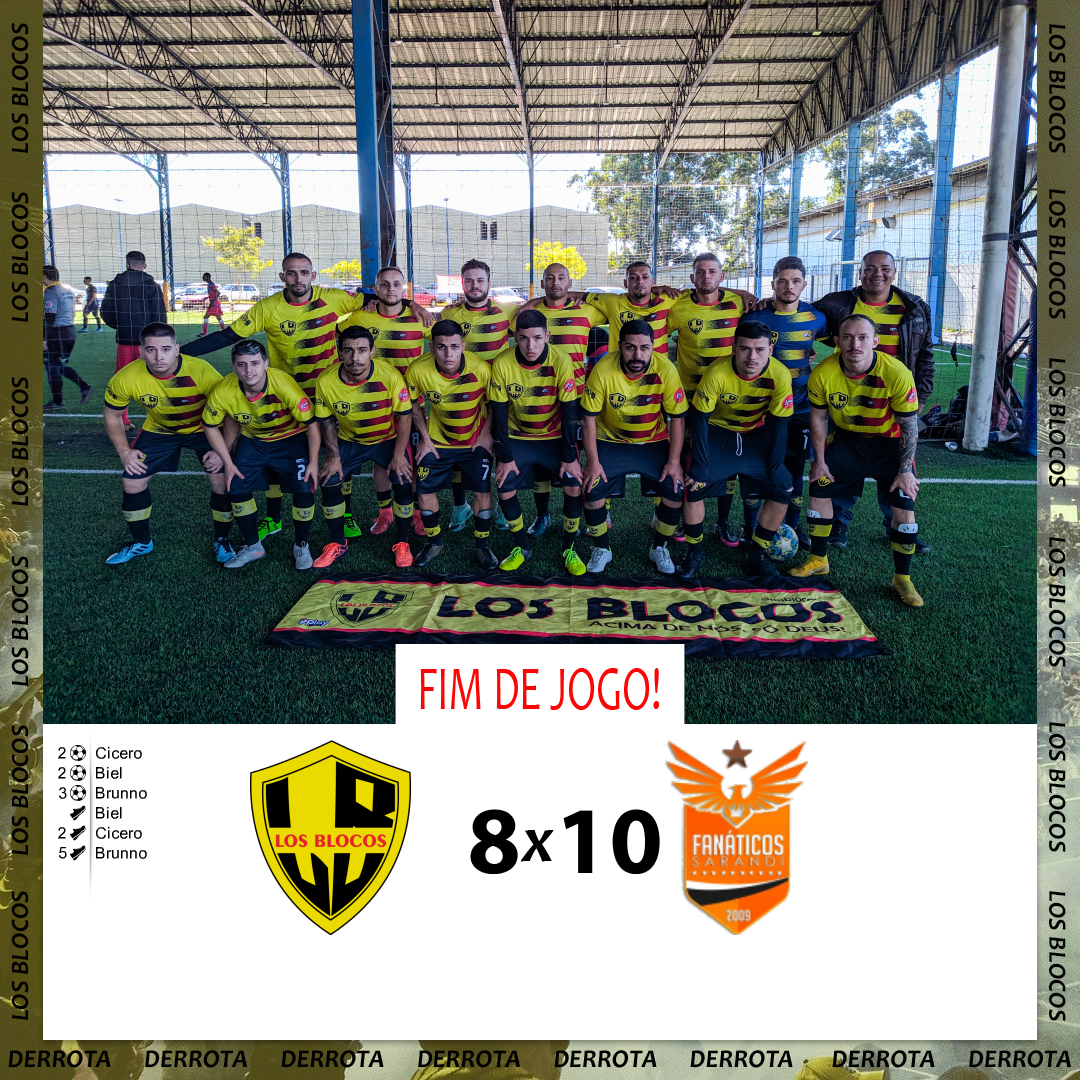
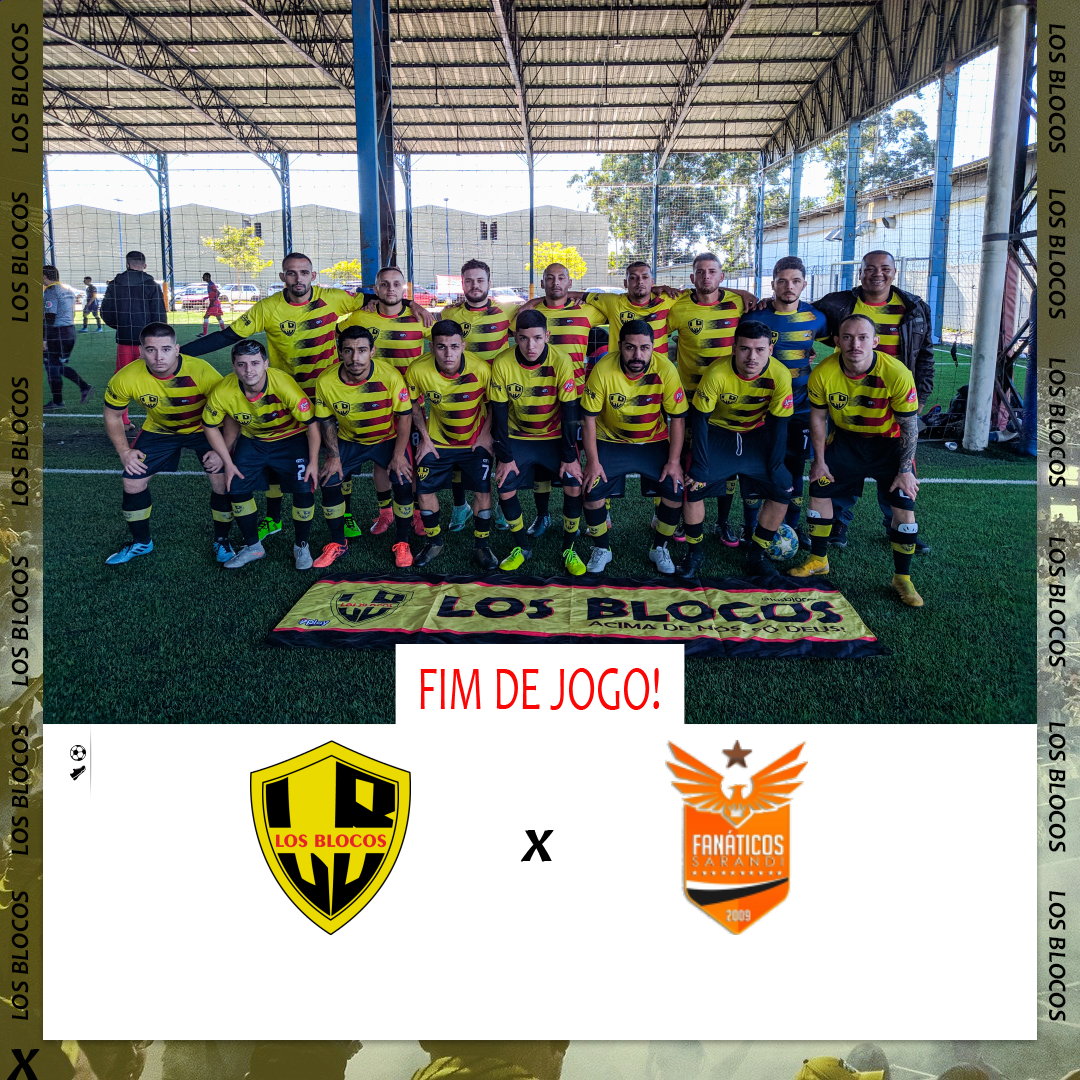
Gols and Assists

diff --git a/frontend/src/components/pages/jsx/PostForm2.jsx b/frontend/src/components/pages/jsx/PostForm2.jsx
@@ -10,6 +10,10 @@ export function PostForm2() {
         { author: '', amount: '' }
     ])
 
+    const [inputList2, setInputList2] = useState([
+        { author: '', amount: '' }
+    ])
+
     const handleChangeInputUnique = event => {
         const { name, value } = event.target
         setGols({
@@ -26,8 +30,21 @@ export function PostForm2() {
         setInputList(list)
     }
 
+    const handleChange2 = (event, index) => {
+        const { name, value } = event.target
+        const list = [...inputList2]
+        list[index][name] = value
+
+        setInputList2(list)
+    }
+
     const handleAddInput = () => {
         setInputList([...inputList, { author: '', amount: '' }])
+
+    }
+
+    const handleAddInput2 = () => {
+        setInputList2([...inputList2, { author: '', amount: '' }])
 
     }
 
@@ -37,13 +54,20 @@ export function PostForm2() {
         setInputList(list)
     }
 
-    const submitHandler = () => { 
+    const handleRemoveInput2 = index => {
+        const list = [...inputList2]
+        list.splice(index, 1)
+        setInputList2(list)
+    }
+
+    const submitHandler = () => {
         const data = {
             golsPro: gols.golsPro,
             golsContra: gols.golsContra,
-            gols: inputList
-        }  
-        
+            gols: inputList,
+            assists: inputList2
+        }
+
         axios.post('http://localhost:3000/make', data)
             .then(res => {
                 console.log(res)
@@ -73,6 +97,9 @@ export function PostForm2() {
             />
             <br />
             <br />
+            <label>Gols</label>
+            <br /> 
+            <br />         
             {inputList.map((item, index) => {
                 return (
                     <div key={index} className="box">
@@ -105,6 +132,44 @@ export function PostForm2() {
                     </div>
                 )
             })}
+            <br />
+            <br />
+            <label>Assistências</label>
+            <br />
+            <br />
+            {inputList2.map((item, index) => {
+                return (
+                    <div key={index} className="box">
+                        <input
+                            type="text"
+                            name="author"
+                            placeholder="Autor"
+                            autoComplete="off"
+                            value={item.author}
+                            onChange={event => handleChange2(event, index)}
+                        />
+                        <input
+                            type="text"
+                            name="amount"
+                            placeholder="Quantidade"
+                            autoComplete="off"
+                            value={item.amount}
+                            onChange={event => handleChange2(event, index)}
+                        />
+                        {inputList2.length !== 1 && <input
+                            type="button"
+                            value="Remover"
+                            onClick={() => handleRemoveInput2(index)}
+                        />}
+                        {inputList2.length - 1 === index && <input
+                            type="button"
+                            value="Adicionar"
+                            onClick={handleAddInput2}
+                        />}
+                    </div>
+                )
+            })}
+            <br />
             <br />
             <button onClick={submitHandler}>Make</button>
         </div>

diff --git a/backend/src/config/jimp.js b/backend/src/config/jimp.js
@@ -1,8 +1,5 @@
 const Jimp = require('jimp')
 
-const gols = []
-const assists = []
-
 function Gols(nome, qntGols) {
     this.nome = nome,
         this.qntGols = qntGols
@@ -12,12 +9,33 @@ function Assists(nome, qntAssists) {
         this.qntAssists = qntAssists
 }
 
-gols.push(new Gols('Cicero', 2))
-gols.push(new Gols('Brunno', 3))
-gols.push(new Gols('Biel', 2))
-assists.push(new Assists('Biel', 1))
-assists.push(new Assists('Brunno', 5))
-assists.push(new Assists('Cicero', 2))
+function addGols(gols) {
+    const golsOfMatch = []
+    for (let i = 0; i < gols.length; i++) {
+        golsOfMatch.push(new Gols(gols[i].author, gols[i].amount))               
+    }
+
+    golsOfMatch.sort(ordenarPorQntGols)
+    return golsOfMatch
+}
+
+function addAssists(assists) {
+    const assistsOfMatch = []
+    for (let i = 0; i < assists.length; i++) {
+        assistsOfMatch.push(new Assists(assists[i].author, assists[i].amount))               
+    }
+
+    assistsOfMatch.sort(ordenarPorQntAssists)
+    return assistsOfMatch
+}
+
+
+// gols.push(new Gols('Cicero', 2))
+// gols.push(new Gols('Brunno', 3))
+// gols.push(new Gols('Biel', 2))
+// assists.push(new Assists('Biel', 1))
+// assists.push(new Assists('Brunno', 5))
+// assists.push(new Assists('Cicero', 2))
 
 function ordenarPorQntGols(a, b) {
     return a.qntGols - b.qntGols;
@@ -26,13 +44,13 @@ function ordenarPorQntAssists(a, b) {
     return a.qntAssists - b.qntAssists;
 }
 
-gols.sort(ordenarPorQntGols)
-assists.sort(ordenarPorQntAssists)
-
-let golsMoreAssists = gols.length + assists.length
+// gols.sort(ordenarPorQntGols)
+// assists.sort(ordenarPorQntAssists)
 
 
-async function resizeGameImage(golsPro, golsContra, image) {
+
+
+async function resizeGameImage(golsPro, golsContra, golsEndMatch, assistsEndMatch, image) {
     const gameImage = await Jimp.read(image)
     const background = await Jimp.read('src/assets/templates/afterGame/2021/background.png')
     const rectEndGame = await Jimp.read('src/assets/templates/afterGame/2021/retangulo-fim-de-jogo.png')
@@ -49,6 +67,10 @@ async function resizeGameImage(golsPro, golsContra, image) {
    
     const font = await Jimp.loadFont('src/assets/fonts/MYRIAD_PRO_BOLD_96_BLACK.fnt')
     const fontGolsAssists = await Jimp.loadFont(Jimp.FONT_SANS_16_BLACK)
+
+    const gols = addGols(golsEndMatch)
+    const assists = addAssists(assistsEndMatch)
+    let golsMoreAssists = gols.length + assists.length
 
     gameImage.resize(994, 724)
     background.composite(gameImage, 43, 0)

diff --git a/backend/src/routes.js b/backend/src/routes.js
@@ -11,7 +11,12 @@ routes.post('/upload', multer(multerConfig).single('file'), (req, res) => {
 
 routes.post('/make', (req, res) => { 
     console.log(req.body)     
-    jimpConfig.resizeGameImage(req.body.golsPro, req.body.golsContra, 'tmp/uploads/gameImage.jpg')    
+    jimpConfig.resizeGameImage(
+        req.body.golsPro, 
+        req.body.golsContra, 
+        req.body.gols, 
+        req.body.assists, 
+        'tmp/uploads/gameImage.jpg')    
     return res.json({ process: 'Sucess' })
 })
 

diff --git a/frontend/src/components/pages/jsx/PostForm.jsx b/frontend/src/components/pages/jsx/PostForm.jsx
@@ -11,7 +11,7 @@ class PostForm extends Component {
             gols: [{
                 author: '', 
                 amount: ''
-            }]             
+            }]                        
         }    
         
         
